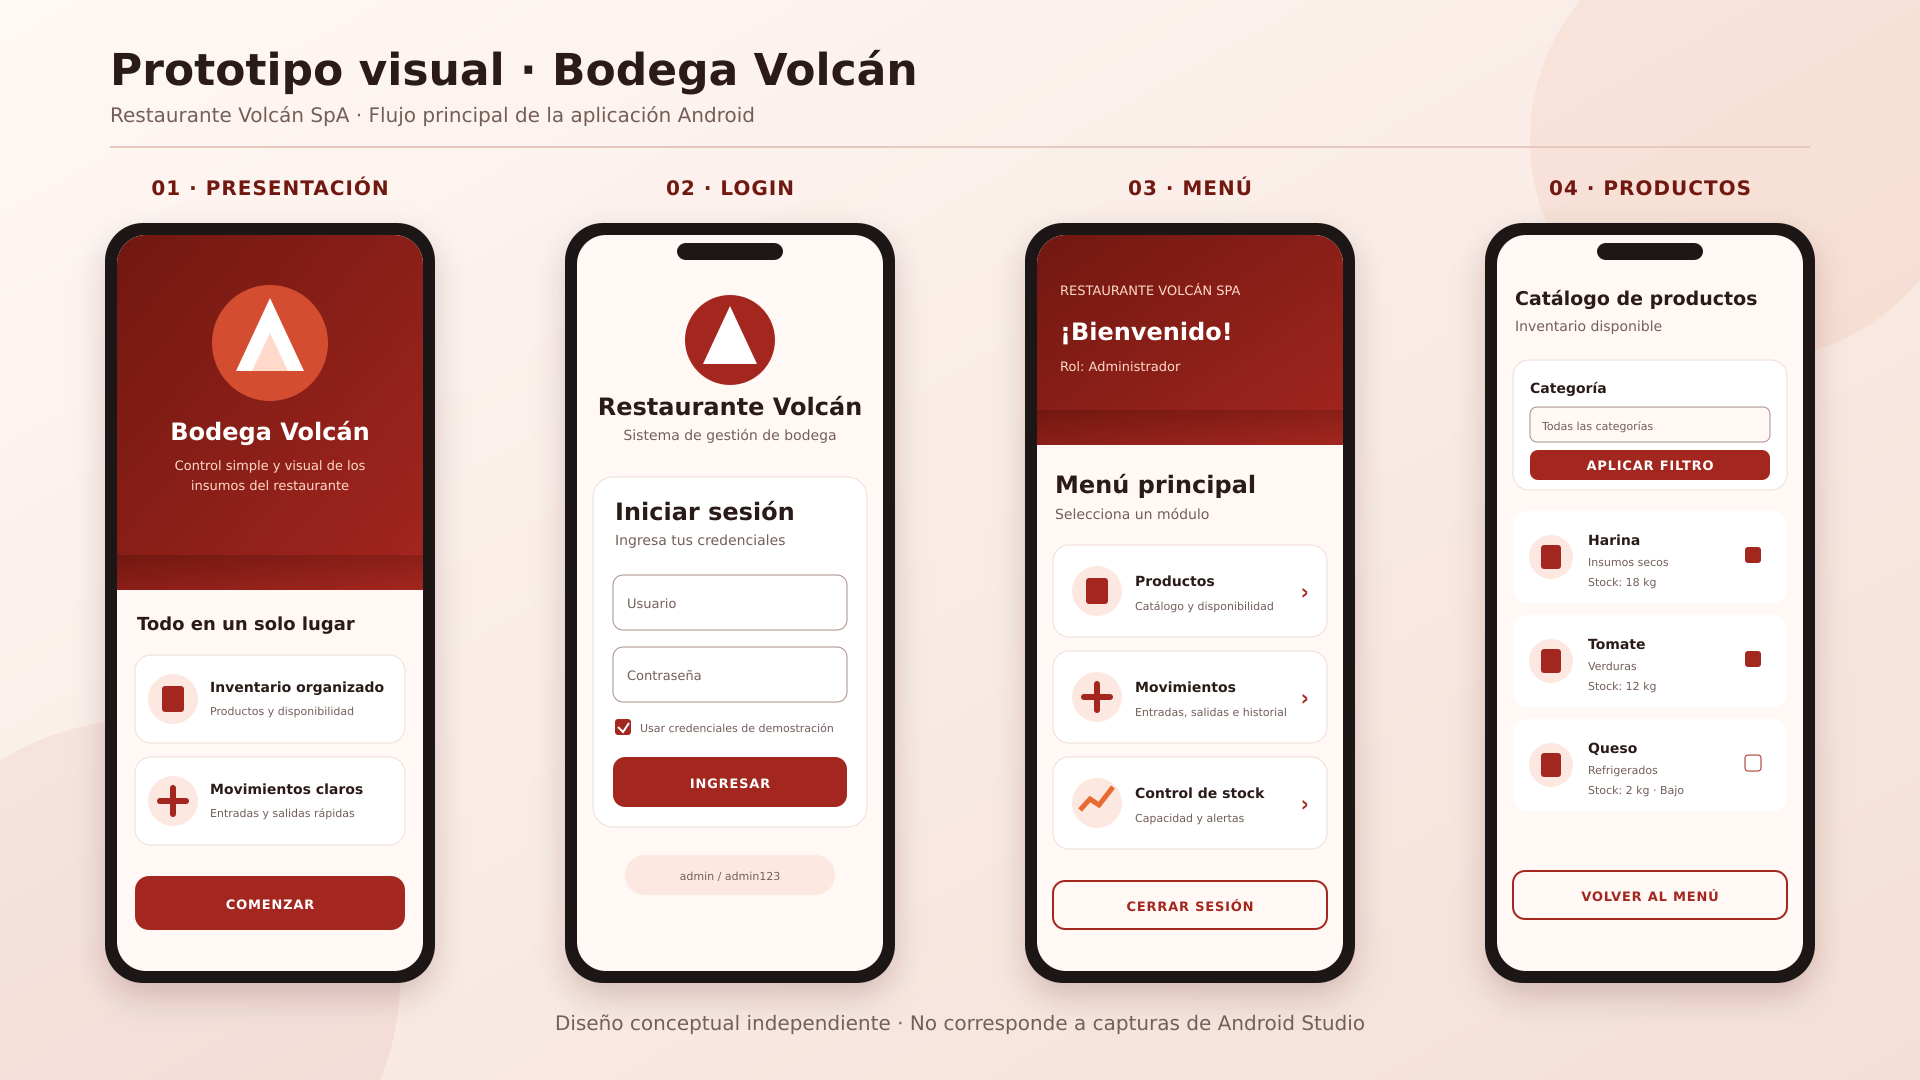
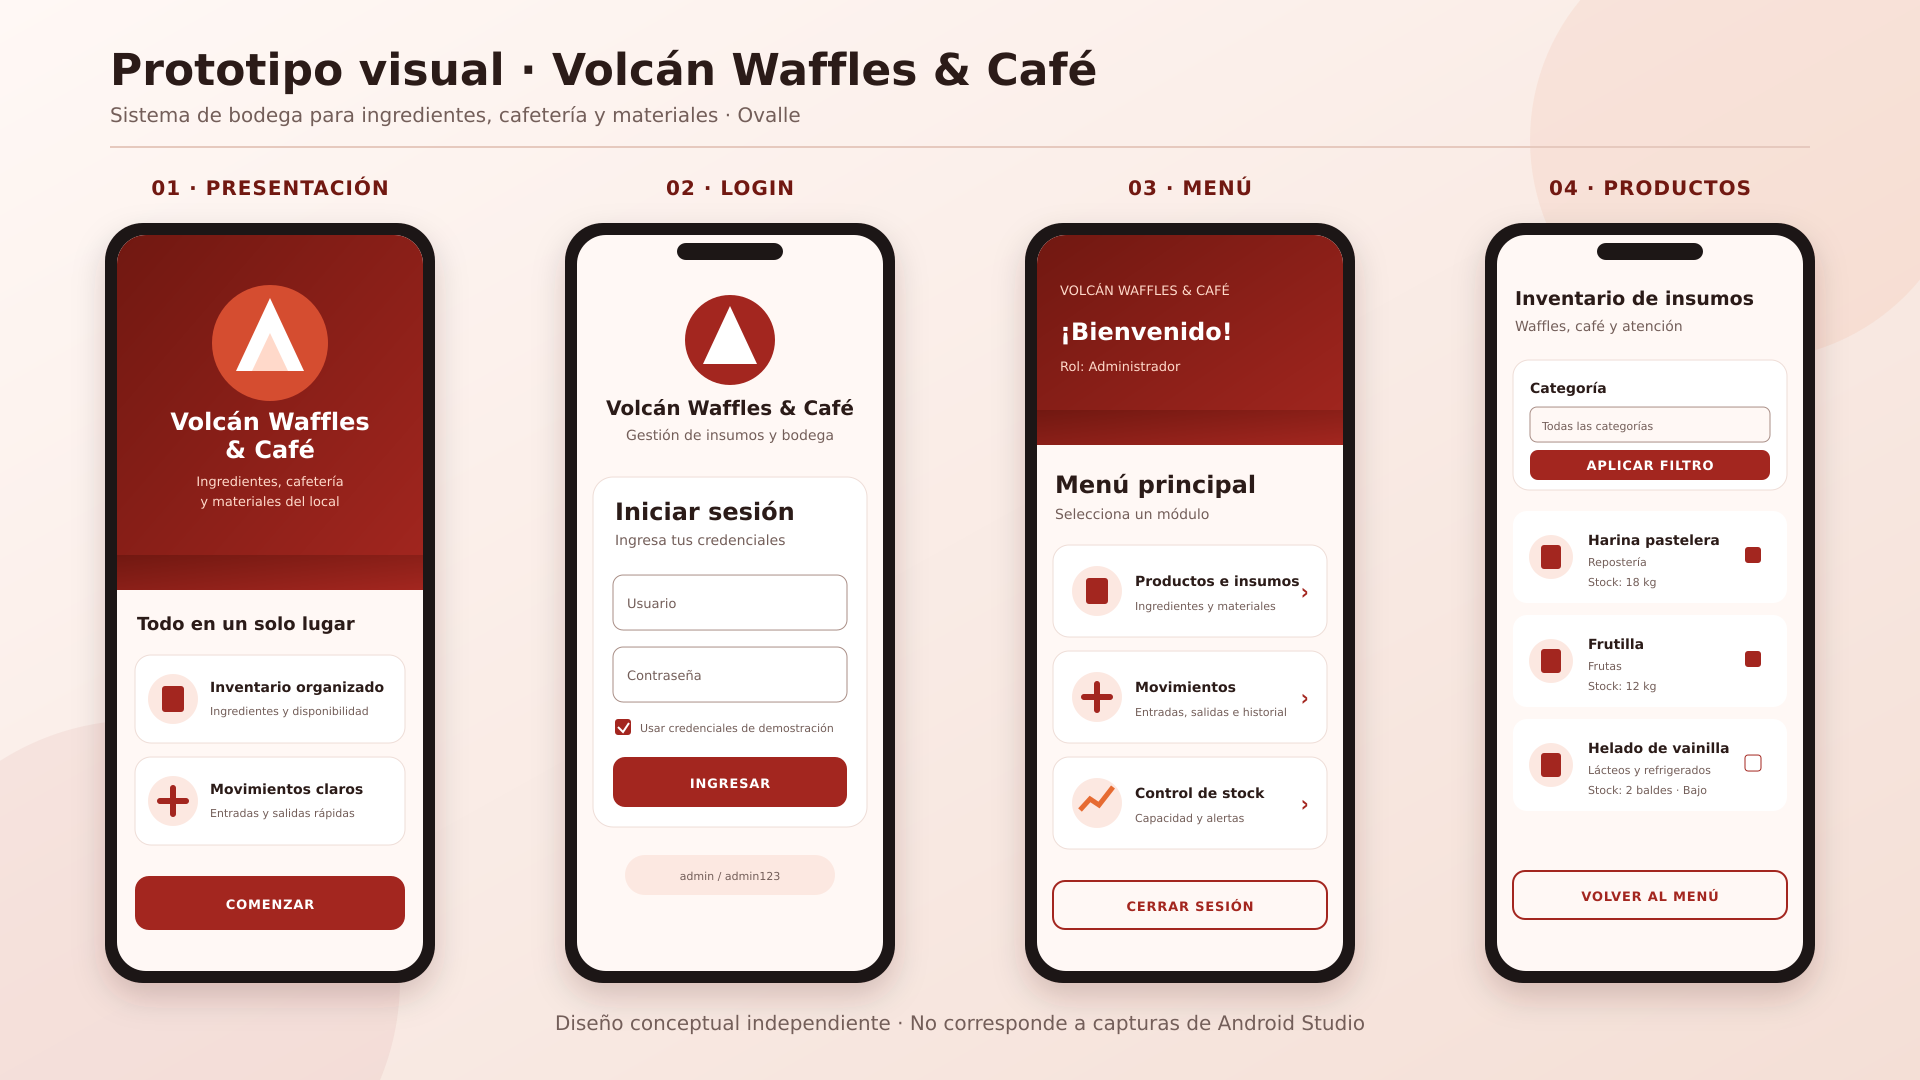
Adapta inventario a Volcan Waffles y Cafe

diff --git a/app/src/main/java/cl/santotomas/restaurantevolcan/ui/products/ProductsActivity.java b/app/src/main/java/cl/santotomas/restaurantevolcan/ui/products/ProductsActivity.java
@@ -28,10 +28,10 @@ public class ProductsActivity extends AppCompatActivity {
         binding.spinnerCategory.setAdapter(categories);
 
         ProductAdapter adapter = new ProductAdapter(Arrays.asList(
-                new ProductAdapter.ProductItem("Harina", "Insumos secos", "Stock: 18 kg", true),
-                new ProductAdapter.ProductItem("Tomate", "Verduras", "Stock: 12 kg", true),
-                new ProductAdapter.ProductItem("Aceite vegetal", "Abarrotes", "Stock: 4 unidades", true),
-                new ProductAdapter.ProductItem("Queso", "Refrigerados", "Stock: 2 kg · Bajo", false)
+                new ProductAdapter.ProductItem("Harina pastelera", "Repostería", "Stock: 18 kg", true),
+                new ProductAdapter.ProductItem("Frutilla", "Frutas", "Stock: 12 kg", true),
+                new ProductAdapter.ProductItem("Salsa de chocolate", "Toppings y salsas", "Stock: 4 botellas", true),
+                new ProductAdapter.ProductItem("Helado de vainilla", "Lácteos y refrigerados", "Stock: 2 baldes · Bajo", false)
         ));
         binding.recyclerProducts.setLayoutManager(new LinearLayoutManager(this));
         binding.recyclerProducts.setAdapter(adapter);

diff --git a/README.md b/README.md
@@ -1,7 +1,15 @@
-# Restaurante Volcán SpA - Prototipo Android
+# Volcán Waffles & Café - Prototipo Android
 
 Proyecto académico desarrollado en **Java** para Android Studio. Presenta un
-prototipo navegable del Sistema de Gestión de Bodega de Restaurante Volcán SpA.
+prototipo navegable del Sistema de Gestión de Bodega de **Volcán Waffles & Café**,
+empresa de Ovalle asignada para el trabajo con el nombre "Restaurante Volcán SpA".
+
+## Identidad de la empresa
+
+- Nombre indicado por el docente: **Restaurante Volcán SpA**.
+- Nombre comercial utilizado en el prototipo: **Volcán Waffles & Café**.
+- Enfoque de la solución: gestión interna de ingredientes, insumos de cafetería,
+  toppings, productos refrigerados y materiales de atención.
 
 ## Integrantes
 
@@ -35,7 +43,7 @@ Todos los botones principales están conectados a sus Activity correspondientes.
 - `WelcomeActivity`: presentación atractiva de la aplicación.
 - `LoginActivity`: validación visual con credenciales de demostración.
 - `DashboardActivity`: menú de acceso a los módulos.
-- `ProductsActivity`: catálogo de productos con filtro visual.
+- `ProductsActivity`: inventario de ingredientes e insumos con filtro visual.
 - `MovementsActivity`: simulación de entradas y salidas.
 - `StockActivity`: capacidad, valoración y alertas de stock bajo.
 
@@ -64,4 +72,6 @@ diseño independiente y no es una captura del Activity ejecutándose.
 ## Alcance
 
 Esta versión se concentra en diseño, navegación y uso de componentes Android.
-Los datos de productos y movimientos son demostrativos y no se almacenan.
+Los datos de productos y movimientos son demostrativos y no se almacenan. Las
+categorías y ejemplos fueron adaptados al rubro real de waffles y cafetería para
+que el prototipo pueda evolucionar posteriormente junto a la empresa.
